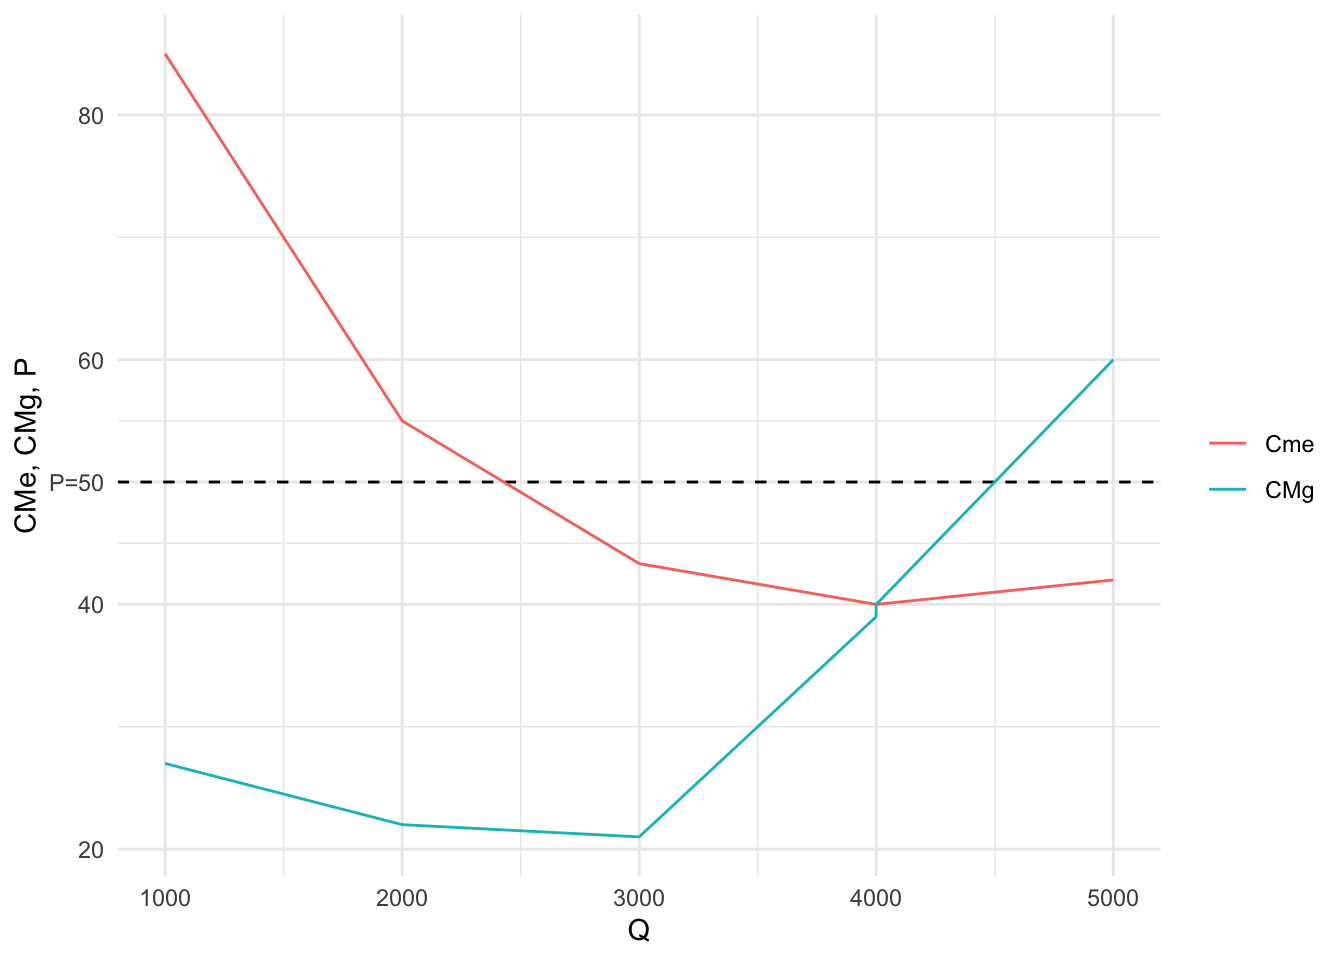
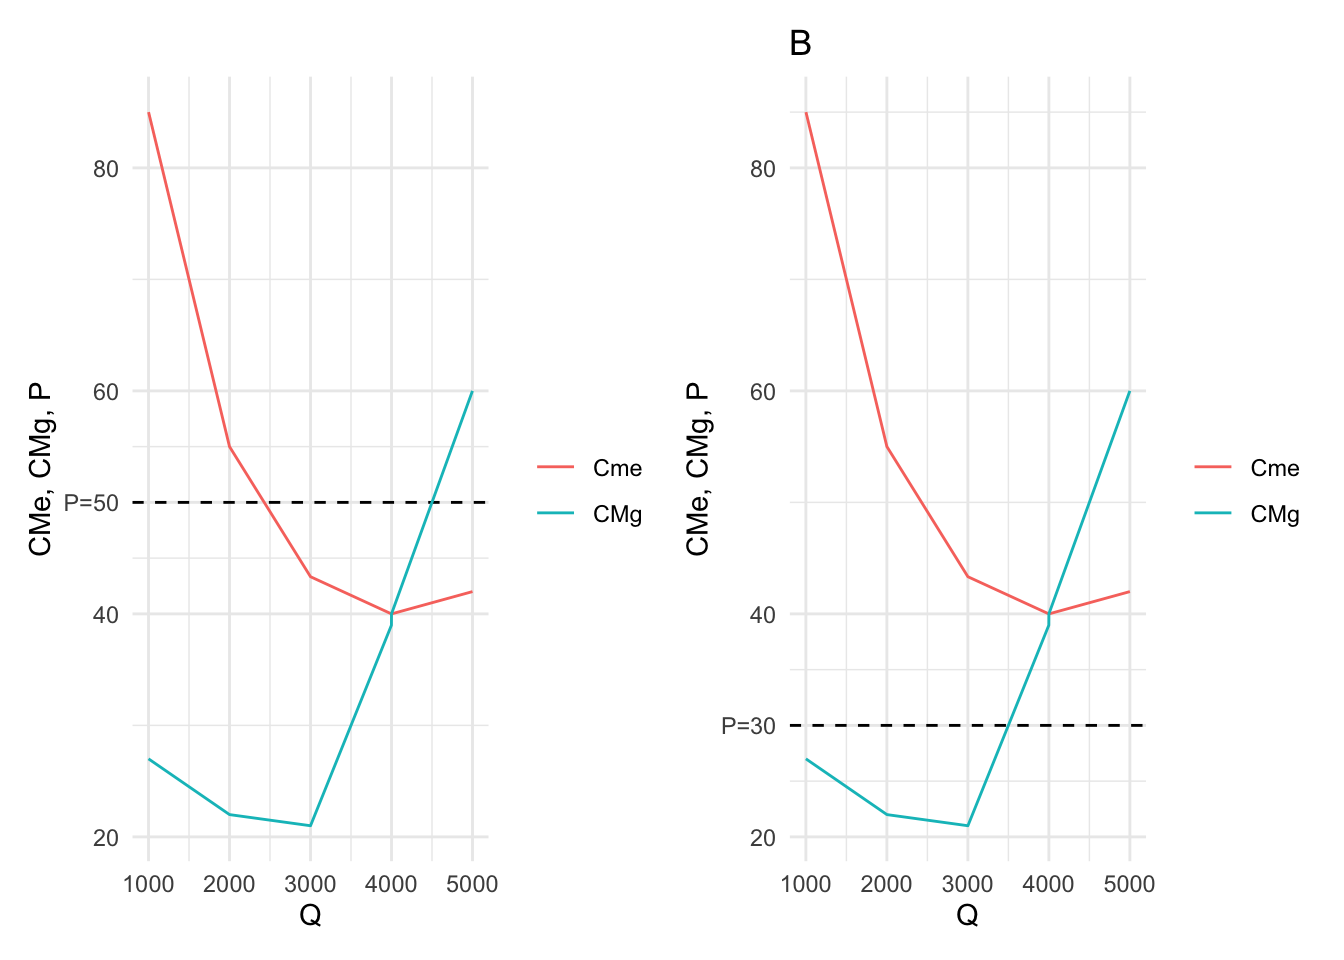
Arregla ejercicion comp perf

diff --git a/content/clases/2019-06-25-estructuras-de-mercado.html b/content/clases/2019-06-25-estructuras-de-mercado.html
@@ -9,10 +9,9 @@ weight: 5
 
 <div id="ejercicio-1" class="section level1">
 <h1>Ejercicio 1</h1>
-<p>Considere un mercado con la siguiente estructura de costos y precios. Analice la situación, explicando los resultados de las empresas y la situación de entrada y salida de empresas del mercado.</p>
+<p>Considere un mercado que funciona en competencia perfecta. Analice dos situaciones mostradas en los siguientes gráficos, explicando los resultados de las empresas y la situación de entrada y salida de empresas al mercado.</p>
 <p><img src="/clases/2019-06-25-estructuras-de-mercado_files/figure-html/unnamed-chunk-2-1.png" width="672" /></p>
 <p>Ahora suponga que la entrada de empresas al sector aumenta la oferta y reduce los precios como se muestra en el siguiente gráfico. Explique la situación, y cuál es el resultado final esperado.</p>
-<p><img src="/clases/2019-06-25-estructuras-de-mercado_files/figure-html/unnamed-chunk-3-1.png" width="672" /></p>
 <div id="bibliografía" class="section level2">
 <h2>Bibliografía</h2>
 <ul>
